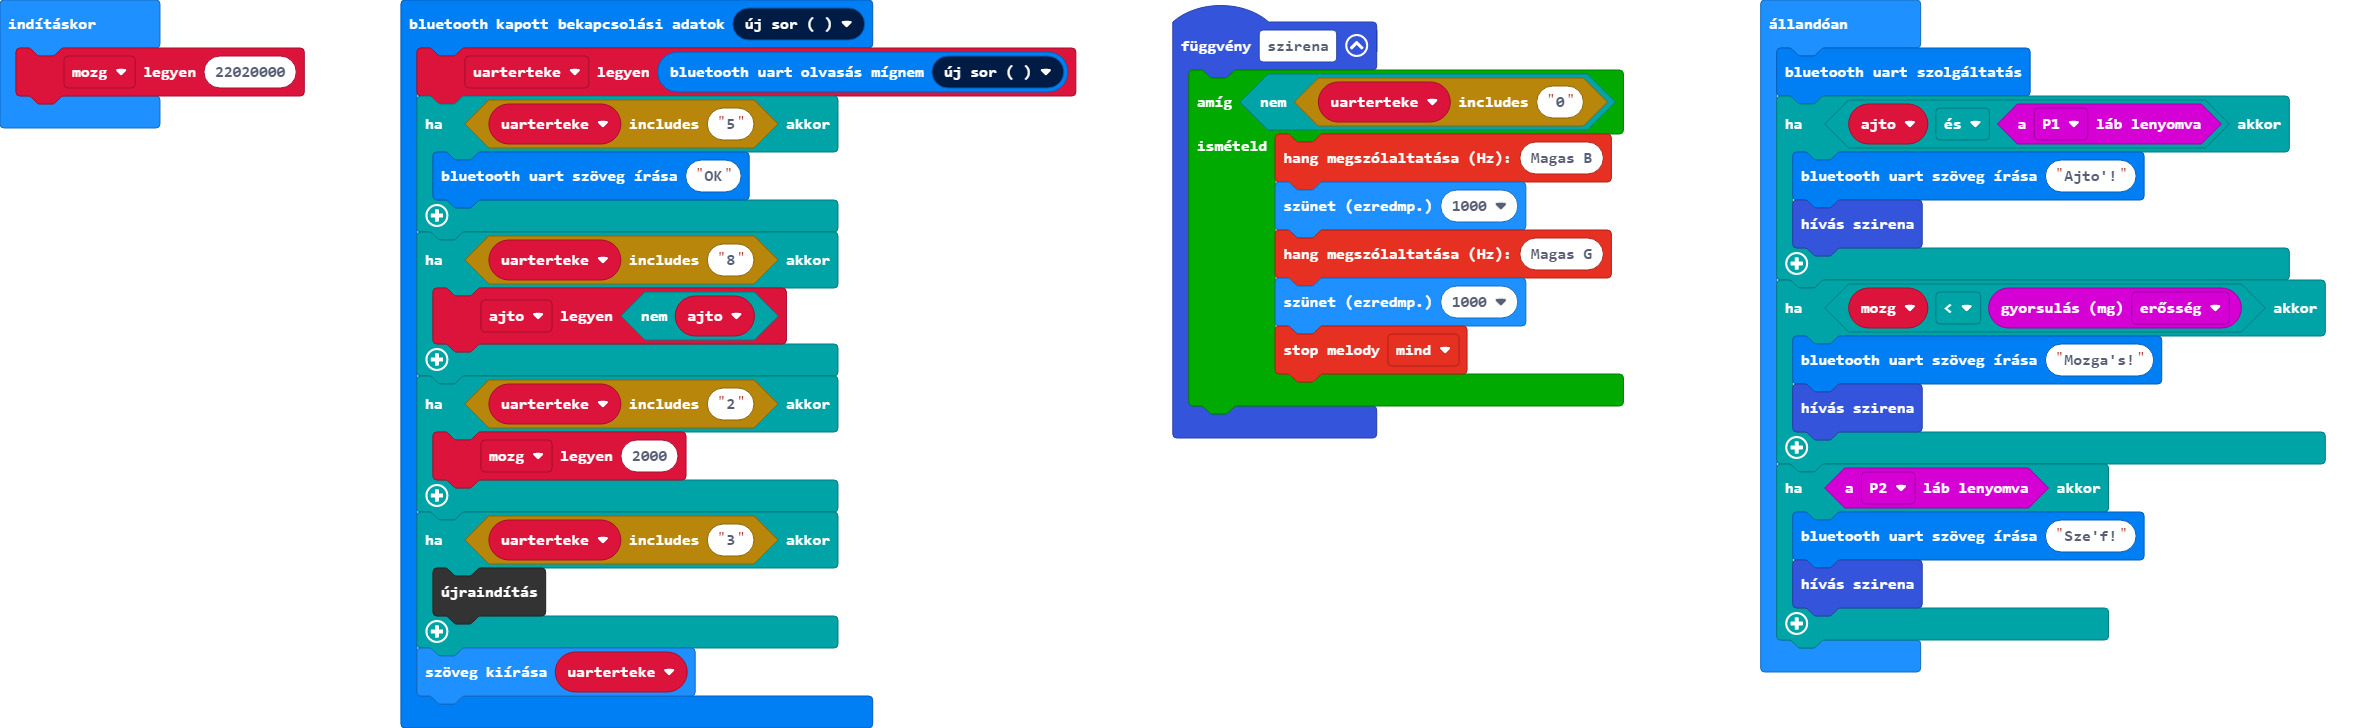
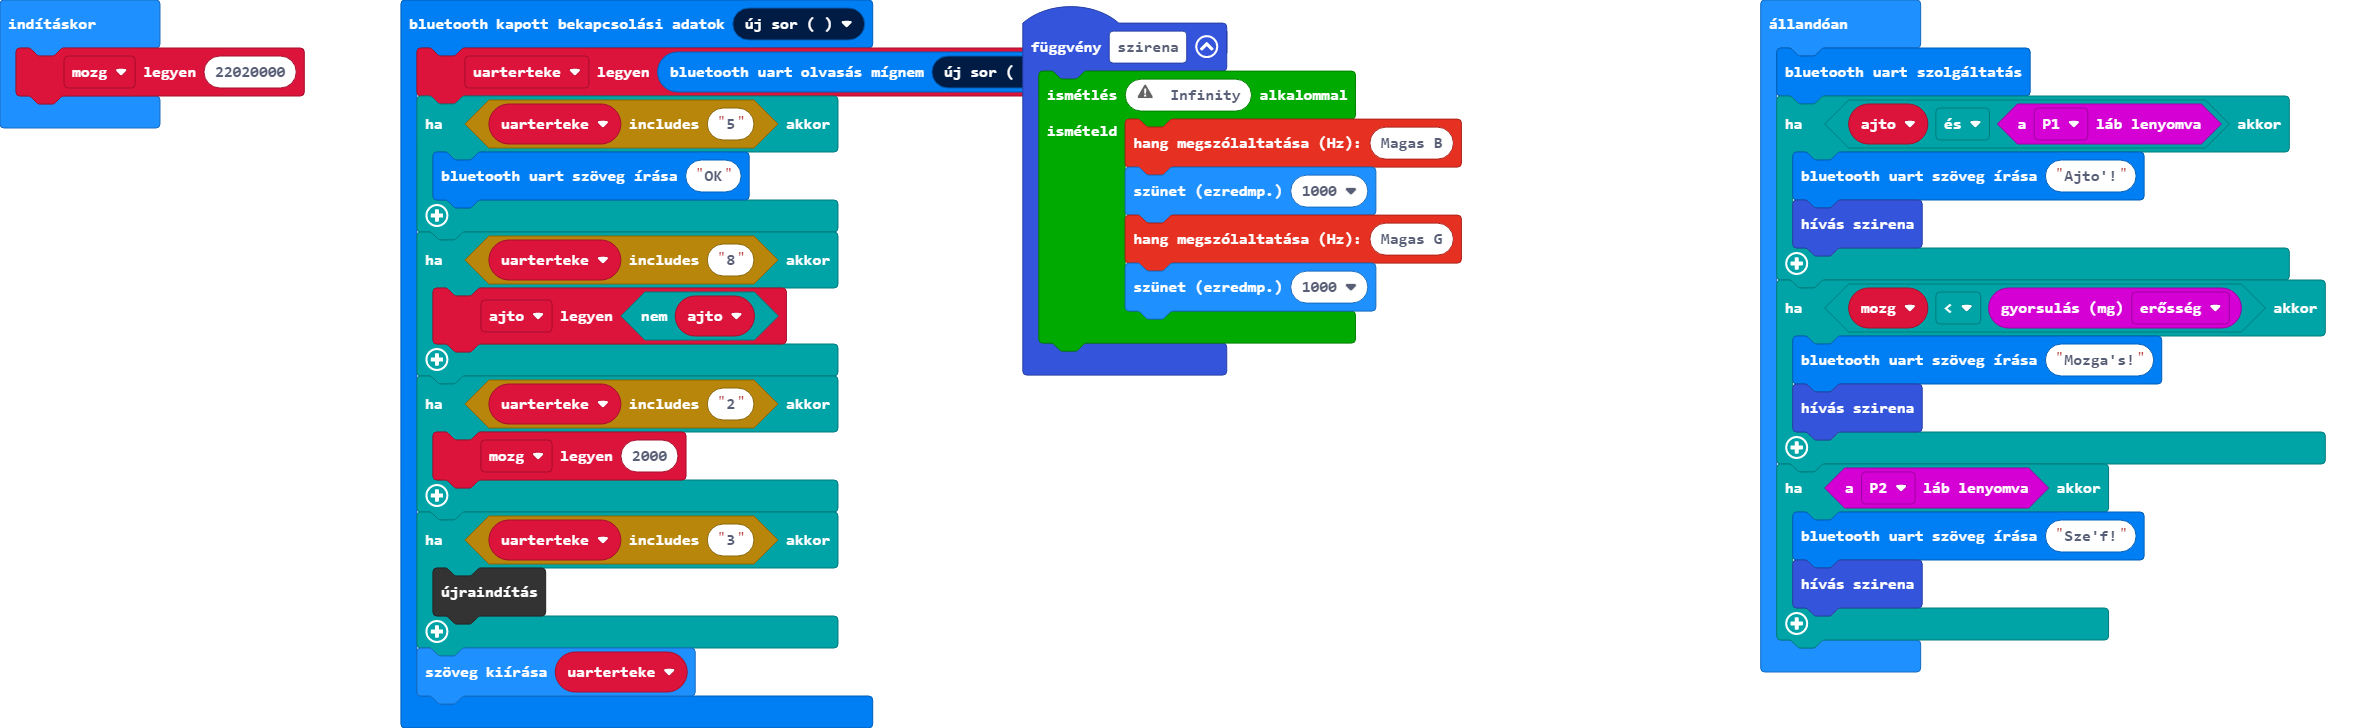
Update main.blocks, main.ts

Changed region(s): [[0.4047, 0.0, 0.6849, 0.6044]]

diff --git a/main.ts b/main.ts
@@ -15,12 +15,8 @@ bluetooth.onUartDataReceived(serial.delimiters(Delimiters.NewLine), function () 
     basic.showString(uarterteke)
 })
 function szirena () {
-    while (!(uarterteke.includes("0"))) {
-        music.ringTone(988)
-        basic.pause(1000)
-        music.ringTone(784)
-        basic.pause(1000)
-        music.stopMelody(MelodyStopOptions.All)
+    for (let index = 0; index < 1065452456120451; index++) {
+    	
     }
 }
 let ajto = false
